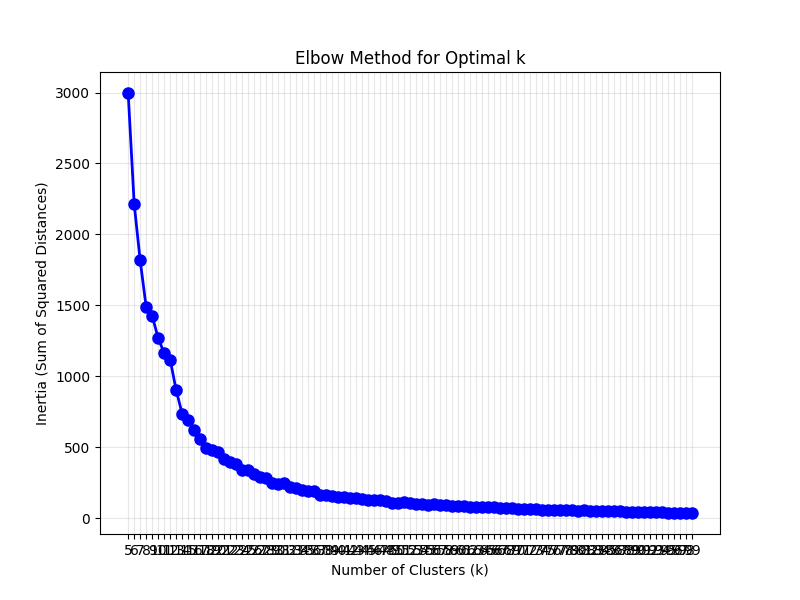
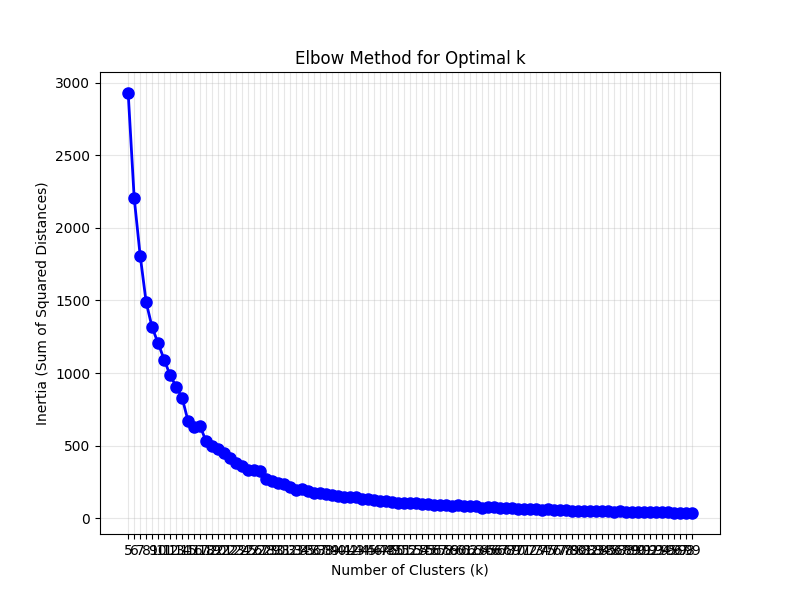
Suppression des anomalies et des duplicats (supprime si deux lignes ont le même id et le même user)

diff --git a/clean_data.py b/clean_data.py
@@ -72,9 +72,11 @@ def analyze_missing(data):
 
 def remove_duplicates(data):
     print(f"\nInitial: {len(data)}")
-    print("Nombre de duplicats :", data.duplicated().sum())
+    # Dédoublonnage spécifique: on conserve une seule ligne par paire (id, user)
+    dup_mask = data.duplicated(subset=["id", "user"], keep="first")
+    print("Duplicats sur (id, user) :", int(dup_mask.sum()))
 
-    data_cleaned = data.drop_duplicates(keep='first')
+    data_cleaned = data.drop_duplicates(subset=["id", "user"], keep="first")
 
     print(f"After removing duplicates: {len(data_cleaned)}")
     return data_cleaned

diff --git a/main.py b/main.py
@@ -15,7 +15,12 @@ data = convert_types(data)
 # Détection d'anomalies (génère un CSV de synthèse)
 _anomalies = detect_anomalies(data, save_path="./output/anomalies.csv")
 
-# analyze_missing(data)
+# Retirer les anomalies avant la visualisation et le clustering
+_before = len(data)
+data = data.drop(index=_anomalies.index)
+_removed = _before - len(data)
+print(f"Suppression anomalies: {_removed} (attendues: {len(_anomalies)})")
+
 data = remove_duplicates(data)
 
 # Visualisation
